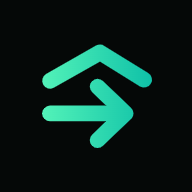
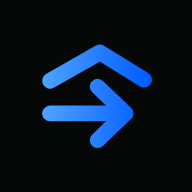
Выкладка Fulbro ffdrop-v51

Changed region(s): [[0.2188, 0.4062, 0.7188, 0.7812], [0.2188, 0.2188, 0.8125, 0.4688]]

diff --git a/app/index.html b/app/index.html
@@ -14,8 +14,8 @@
 <link rel="manifest" href="manifest.json">
 <link rel="apple-touch-icon" href="apple-touch-icon.png">
 <link rel="stylesheet" href="fonts/fonts.css">
-<link rel="stylesheet" href="css/app.css?v=50">
-<link rel="stylesheet" href="css/ios26.css?v=50">
+<link rel="stylesheet" href="css/app.css?v=51">
+<link rel="stylesheet" href="css/ios26.css?v=51">
 </head>
 <body>
 
@@ -73,7 +73,7 @@
   <div class="sticky-chrome">
     <header class="top">
       <div class="brand">
-        <div class="mark"><img id="headerLogoImg" src="logo-mark.svg" alt="Fulbro" style="width:100%;height:100%;object-fit:contain;"></div>
+        <div class="mark"><img id="headerLogoImg" src="logo-mark-blue.svg" alt="Fulbro" style="width:100%;height:100%;object-fit:contain;"></div>
         <div class="name">
           <h1 id="companyTitle">Fulbro</h1>
           <div class="sub" id="syncLine">Данные на этом устройстве</div>
@@ -945,7 +945,7 @@
 <div id="authModalBg" data-mode="choose">
   <div class="auth-card">
     <button type="button" class="auth-back" id="authBack" onclick="authBack()" aria-label="Назад" hidden><svg class="icon"><use href="#i-arrow-left"/></svg></button>
-    <div class="auth-logo"><img src="logo-mark.svg" alt="Fulbro"></div>
+    <div class="auth-logo"><img src="logo-mark-blue.svg" alt="Fulbro"></div>
     <div class="auth-who" id="authWho" hidden></div>
     <h2 id="authTitle">Вход</h2>
     <p id="authHint"></p>
@@ -1154,51 +1154,51 @@
 <script src="vendor/zxing.min.js"></script>
 <script src="vendor/qrcode.min.js"></script>
 <script src="vendor/supabase.min.js"></script>
-<script src="sync-config.js?v=50"></script>
-<script src="js/db.js?v=50"></script>
-<script src="js/cells.js?v=50"></script>
-<script src="js/ff-data.js?v=50"></script>
-<script src="js/sync-ui.js?v=50"></script>
-<script src="js/input.js?v=50"></script>
-<script src="js/returns-scan.js?v=50"></script>
-<script src="js/sounds.js?v=50"></script>
-<script src="js/stock-history.js?v=50"></script>
-<script src="js/finance.js?v=50"></script>
-<script src="js/balance.js?v=50"></script>
-<script src="js/analytics.js?v=50"></script>
-<script src="js/settings-roles.js?v=50"></script>
-<script src="js/roles.js?v=50"></script>
-<script src="js/suppliers.js?v=50"></script>
-<script src="js/stock-ff.js?v=50"></script>
-<script src="js/cells-ui.js?v=50"></script>
-<script src="js/moves.js?v=50"></script>
-<script src="js/receipts.js?v=50"></script>
-<script src="js/shipments.js?v=50"></script>
-<script src="js/photos.js?v=50"></script>
-<script src="js/staff.js?v=50"></script>
-<script src="js/billing.js?v=50"></script>
-<script src="js/product-pick.js?v=50"></script>
-<script src="js/assembly.js?v=50"></script>
-<script src="js/today.js?v=50"></script>
-<script src="js/stats.js?v=50"></script>
-<script src="js/archive.js?v=50"></script>
-<script src="js/supplier-home.js?v=50"></script>
-<script src="js/incoming.js?v=50"></script>
-<script src="js/excel-import.js?v=50"></script>
-<script src="js/sell.js?v=50"></script>
-<script src="js/supplier-analysis.js?v=50"></script>
-<script src="js/review.js?v=50"></script>
-<script src="js/history-ff.js?v=50"></script>
-<script src="js/scan-ff.js?v=50"></script>
-<script src="js/demo.js?v=50"></script>
-<script src="js/subscription.js?v=50"></script>
-<script src="js/tariffs.js?v=50"></script>
-<script src="js/admin.js?v=50"></script>
-<script src="js/backup-labels.js?v=50"></script>
+<script src="sync-config.js?v=51"></script>
+<script src="js/db.js?v=51"></script>
+<script src="js/cells.js?v=51"></script>
+<script src="js/ff-data.js?v=51"></script>
+<script src="js/sync-ui.js?v=51"></script>
+<script src="js/input.js?v=51"></script>
+<script src="js/returns-scan.js?v=51"></script>
+<script src="js/sounds.js?v=51"></script>
+<script src="js/stock-history.js?v=51"></script>
+<script src="js/finance.js?v=51"></script>
+<script src="js/balance.js?v=51"></script>
+<script src="js/analytics.js?v=51"></script>
+<script src="js/settings-roles.js?v=51"></script>
+<script src="js/roles.js?v=51"></script>
+<script src="js/suppliers.js?v=51"></script>
+<script src="js/stock-ff.js?v=51"></script>
+<script src="js/cells-ui.js?v=51"></script>
+<script src="js/moves.js?v=51"></script>
+<script src="js/receipts.js?v=51"></script>
+<script src="js/shipments.js?v=51"></script>
+<script src="js/photos.js?v=51"></script>
+<script src="js/staff.js?v=51"></script>
+<script src="js/billing.js?v=51"></script>
+<script src="js/product-pick.js?v=51"></script>
+<script src="js/assembly.js?v=51"></script>
+<script src="js/today.js?v=51"></script>
+<script src="js/stats.js?v=51"></script>
+<script src="js/archive.js?v=51"></script>
+<script src="js/supplier-home.js?v=51"></script>
+<script src="js/incoming.js?v=51"></script>
+<script src="js/excel-import.js?v=51"></script>
+<script src="js/sell.js?v=51"></script>
+<script src="js/supplier-analysis.js?v=51"></script>
+<script src="js/review.js?v=51"></script>
+<script src="js/history-ff.js?v=51"></script>
+<script src="js/scan-ff.js?v=51"></script>
+<script src="js/demo.js?v=51"></script>
+<script src="js/subscription.js?v=51"></script>
+<script src="js/tariffs.js?v=51"></script>
+<script src="js/admin.js?v=51"></script>
+<script src="js/backup-labels.js?v=51"></script>
 <!-- после основного кода: синхронизация опирается на его функции -->
-<script src="sync.js?v=50"></script>
-<script src="js/layout.js?v=50"></script>
-<script src="js/nav-back.js?v=50"></script>
-<script src="js/picker.js?v=50"></script>
+<script src="sync.js?v=51"></script>
+<script src="js/layout.js?v=51"></script>
+<script src="js/nav-back.js?v=51"></script>
+<script src="js/picker.js?v=51"></script>
 </body>
 </html>

diff --git a/app/service-worker.js b/app/service-worker.js
@@ -1,6 +1,6 @@
 /* Версию бампаем при КАЖДОЙ выкладке — иначе у установленных приложений
    останется старый кеш, и правки увидят не сразу. */
-const CACHE_NAME = 'ffdrop-v50';   // не «ff-v»: так звался кеш старого SW в корне, его стирает самоудаляющийся SW
+const CACHE_NAME = 'ffdrop-v51';   // не «ff-v»: так звался кеш старого SW в корне, его стирает самоудаляющийся SW
 
 /* Всё, что нужно приложению для полностью автономной работы: оболочка,
    иконки, сканер штрихкодов, генератор QR и шрифты. Раньше сканер, QR и
@@ -16,6 +16,7 @@ const ASSETS = [
   './manifest.json',
   './icon-192.png',
   './logo-mark.svg',
+  './logo-mark-blue.svg',
   './icon-512.png',
   './apple-touch-icon.png',
   './splash.jpg',
@@ -26,53 +27,53 @@ const ASSETS = [
   /* Свои скрипты и стили — с номером версии в адресе (его поднимает
      выкладка вместе с CACHE_NAME): новая страница никогда не получит из
      кеша старый кусок кода, а старая — новый. */
-  './css/app.css?v=50',
-  './css/ios26.css?v=50',
-  './sync-config.js?v=50',
-  './js/db.js?v=50',
-  './js/cells.js?v=50',
-  './js/ff-data.js?v=50',
-  './js/sync-ui.js?v=50',
-  './js/input.js?v=50',
-  './js/returns-scan.js?v=50',
-  './js/sounds.js?v=50',
-  './js/stock-history.js?v=50',
-  './js/finance.js?v=50',
-  './js/balance.js?v=50',
-  './js/analytics.js?v=50',
-  './js/settings-roles.js?v=50',
-  './js/roles.js?v=50',
-  './js/suppliers.js?v=50',
-  './js/stock-ff.js?v=50',
-  './js/cells-ui.js?v=50',
-  './js/moves.js?v=50',
-  './js/receipts.js?v=50',
-  './js/shipments.js?v=50',
-  './js/photos.js?v=50',
-  './js/staff.js?v=50',
-  './js/billing.js?v=50',
-  './js/product-pick.js?v=50',
-  './js/assembly.js?v=50',
-  './js/today.js?v=50',
-  './js/stats.js?v=50',
-  './js/archive.js?v=50',
-  './js/supplier-home.js?v=50',
-  './js/incoming.js?v=50',
-  './js/excel-import.js?v=50',
-  './js/sell.js?v=50',
-  './js/supplier-analysis.js?v=50',
-  './js/review.js?v=50',
-  './js/nav-back.js?v=50',
-  './js/picker.js?v=50',
-  './js/history-ff.js?v=50',
-  './js/scan-ff.js?v=50',
-  './js/demo.js?v=50',
-  './js/subscription.js?v=50',
-  './js/tariffs.js?v=50',
-  './js/admin.js?v=50',
-  './js/backup-labels.js?v=50',
-  './sync.js?v=50',
-  './js/layout.js?v=50',
+  './css/app.css?v=51',
+  './css/ios26.css?v=51',
+  './sync-config.js?v=51',
+  './js/db.js?v=51',
+  './js/cells.js?v=51',
+  './js/ff-data.js?v=51',
+  './js/sync-ui.js?v=51',
+  './js/input.js?v=51',
+  './js/returns-scan.js?v=51',
+  './js/sounds.js?v=51',
+  './js/stock-history.js?v=51',
+  './js/finance.js?v=51',
+  './js/balance.js?v=51',
+  './js/analytics.js?v=51',
+  './js/settings-roles.js?v=51',
+  './js/roles.js?v=51',
+  './js/suppliers.js?v=51',
+  './js/stock-ff.js?v=51',
+  './js/cells-ui.js?v=51',
+  './js/moves.js?v=51',
+  './js/receipts.js?v=51',
+  './js/shipments.js?v=51',
+  './js/photos.js?v=51',
+  './js/staff.js?v=51',
+  './js/billing.js?v=51',
+  './js/product-pick.js?v=51',
+  './js/assembly.js?v=51',
+  './js/today.js?v=51',
+  './js/stats.js?v=51',
+  './js/archive.js?v=51',
+  './js/supplier-home.js?v=51',
+  './js/incoming.js?v=51',
+  './js/excel-import.js?v=51',
+  './js/sell.js?v=51',
+  './js/supplier-analysis.js?v=51',
+  './js/review.js?v=51',
+  './js/nav-back.js?v=51',
+  './js/picker.js?v=51',
+  './js/history-ff.js?v=51',
+  './js/scan-ff.js?v=51',
+  './js/demo.js?v=51',
+  './js/subscription.js?v=51',
+  './js/tariffs.js?v=51',
+  './js/admin.js?v=51',
+  './js/backup-labels.js?v=51',
+  './sync.js?v=51',
+  './js/layout.js?v=51',
   './fonts/fonts.css',
   './fonts/Saira-700i-wide-latin.woff2',
   './fonts/Inter-400-cyrillic.woff2',

diff --git a/app/js/archive.js b/app/js/archive.js
@@ -27,7 +27,7 @@ async function renderArchive(){
       <select id="arModel" onchange="arRefresh()">${opt('', 'Все товары', keep.model)}${modelList.map(m=> opt(m.id, modelName(m), keep.model)).join('')}</select></div>
     ${arKind === 'ship' ? `<div class="field-row" style="margin-top:8px;">
       <select id="arCarrier" onchange="arRefresh()">${opt('', 'Все службы', keep.carrier)}${carrierList().map(c=> opt(c, c, keep.carrier)).join('')}</select>
-      <select id="arStatus" onchange="arRefresh()">${opt('', 'Все статусы', keep.status)}${opt('забронировано', 'Забронировано', keep.status)}${opt('собрана', 'Собрана', keep.status)}${opt('отменена', 'Отменена', keep.status)}${opt('удалена', 'Удалена', keep.status)}</select></div>` : ''}
+      <select id="arStatus" onchange="arRefresh()">${opt('', 'Все статусы', keep.status)}${opt('забронировано', 'Заброн', keep.status)}${opt('собрана', 'Собрана', keep.status)}${opt('отменена', 'Отменена', keep.status)}${opt('удалена', 'Удалена', keep.status)}</select></div>` : ''}
     <div class="field-row" style="margin-top:8px;">
       <select id="arPeriod" onchange="arRefresh()">${opt('today', 'Сегодня', keep.period)}${opt('7', '7 дней', keep.period)}${opt('30', '30 дней', keep.period)}${opt('90', '90 дней', keep.period)}${opt('all', 'Всё время', keep.period)}</select></div></div>`;
 

diff --git a/app/css/app.css b/app/css/app.css
@@ -522,7 +522,7 @@ nav.bottom button.active{color:var(--accent);background:var(--accent-soft);}
 }
 #splashScreen.hide{opacity:0;visibility:hidden;pointer-events:none;}
 .splash-loader{position:absolute;bottom:5%;z-index:1;display:flex;flex-direction:column;align-items:center;gap:10px;}
-.spinner{width:26px;height:26px;border-radius:50%;border:2.5px solid rgba(255,255,255,.16);border-top-color:#52F2B8;animation:splashSpin .8s linear infinite;}
+.spinner{width:26px;height:26px;border-radius:50%;border:2.5px solid rgba(255,255,255,.16);border-top-color:#2F8CFF;animation:splashSpin .8s linear infinite;}
 @keyframes splashSpin{to{transform:rotate(360deg);}}
 .splash-loading-text{font-size:12px;color:rgba(255,255,255,.55);}
 @media (prefers-reduced-motion:reduce){
@@ -644,7 +644,7 @@ body.kb-open nav.bottom{display:none;}
    ============================================================ */
 aside.side{display:none;}
 .side-brand{display:flex;align-items:center;gap:10px;font-family:var(--font-display);font-weight:700;font-size:19px;margin:2px 8px 18px;color:var(--text);}
-.side-mark{width:30px;height:33px;background:url(../logo-mark.svg) center/contain no-repeat;flex-shrink:0;}
+.side-mark{width:30px;height:33px;background:url(../logo-mark-blue.svg) center/contain no-repeat;flex-shrink:0;}
 .home-actions{display:grid;grid-template-columns:1fr 1fr;gap:10px;margin:0 0 14px;}
 .home-actions .btn{min-height:56px;font-size:17px;}
 .sizes-line .flow{color:var(--text-secondary);font-size:13px;}

diff --git a/app/js/today.js b/app/js/today.js
@@ -24,7 +24,7 @@ async function renderToday(){
       <svg class="icon"><use href="#${icon}"/></svg><b>${n}</b><span>${label}</span>${sub ? `<em>${sub}</em>` : ''}</button>`;
   box.innerHTML = `<div class="td-grid">
     ${tile('new', 'i-out', newToday, 'новых заказов', '', 'shipments')}
-    ${tile('open', 'i-box', open.length, 'не собрано', 'собрано сегодня: ' + doneToday, 'shipments', true)}
+    ${tile('open', 'i-box', open.length, 'не собрано', '', 'shipments', true)}
     ${tile('review', 'i-check', review, 'проверить', review ? '' : 'всё проверено', 'shipments', true)}
     ${tile('expected', 'i-in', expected, 'ожидается поставок', '', 'stock')}
     ${tile('receipts', 'i-in', notPlaced, 'не разложено', '', 'receipts', true)}

diff --git a/app/js/settings-roles.js b/app/js/settings-roles.js
@@ -162,7 +162,7 @@ async function saveSettings(){
 }
 
 function applyHeaderLogo(){
-  const src = 'logo-mark.svg';   // логотип — только Fulbro (владелец)
+  const src = 'logo-mark-blue.svg';   // логотип — только Fulbro (владелец)
   const headerImg = document.getElementById('headerLogoImg');
   if(headerImg) headerImg.src = src;
   const previewImg = document.getElementById('logoPreviewImg');
